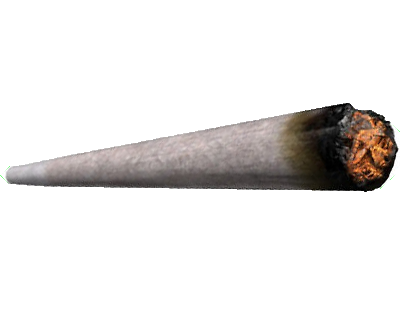
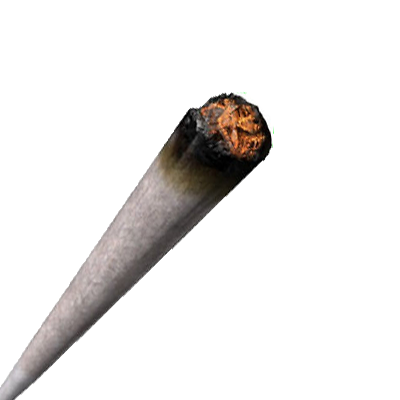
Ágyú forgni vnal jó

Changed region(s): [[0.0, 0.216, 1.0, 1.0]]

diff --git a/core/src/hu/tokingame/physicscalculator/Simulation/SimulationStage.java b/core/src/hu/tokingame/physicscalculator/Simulation/SimulationStage.java
@@ -44,6 +44,8 @@ public class SimulationStage extends MyStage {
     Target target;
     OneSpriteStaticActor cannon;
 
+    // TODO: 10/25/2017 Ez azért kell mert az ágyú textúra 45 fokban áll. EZ NE MARADJON ÍGY 
+    private final float rotationOffset = 45;
 
     int h = 1000;
 
@@ -123,9 +125,10 @@ public class SimulationStage extends MyStage {
                 @Override
                 protected void init() {
                     super.init();
-                    setPosition(0, 0);
                     setSize(100, 100);
-                    setRotation(calc.getAlpha()[0]);
+                    setOrigin(0,0);
+                    setPosition(0, 0);
+                    setRotation(calc.getAlpha()[0]-rotationOffset);
                 }
             });
             potato1.startSpinning();
@@ -198,7 +201,7 @@ public class SimulationStage extends MyStage {
                     potato1.stopSpinning();
                     elapsedtime = 0;
                     potato2.startSpinning();
-                    cannon.setRotation(calculator.getAlpha()[1]);
+                    cannon.setRotation(calculator.getAlpha()[1]-rotationOffset);
                 }
             }
             if(potato2.isSpinning()){

diff --git a/core/src/hu/tokingame/physicscalculator/BaseClass/OneSpriteActor.java b/core/src/hu/tokingame/physicscalculator/BaseClass/OneSpriteActor.java
@@ -48,6 +48,18 @@ abstract public class OneSpriteActor extends MyActor {
     }
 
     @Override
+    public void setRotation(float degrees) {
+        super.setRotation(degrees);
+        sprite.setRotation(degrees);
+    }
+
+    @Override
+    public void setOrigin(float originX, float originY) {
+        super.setOrigin(originX, originY);
+        sprite.setOrigin(originX, originY);
+    }
+
+    @Override
     protected void sizeChanged() {
         super.sizeChanged();
         sprite.setSize(getWidth(), getHeight());
